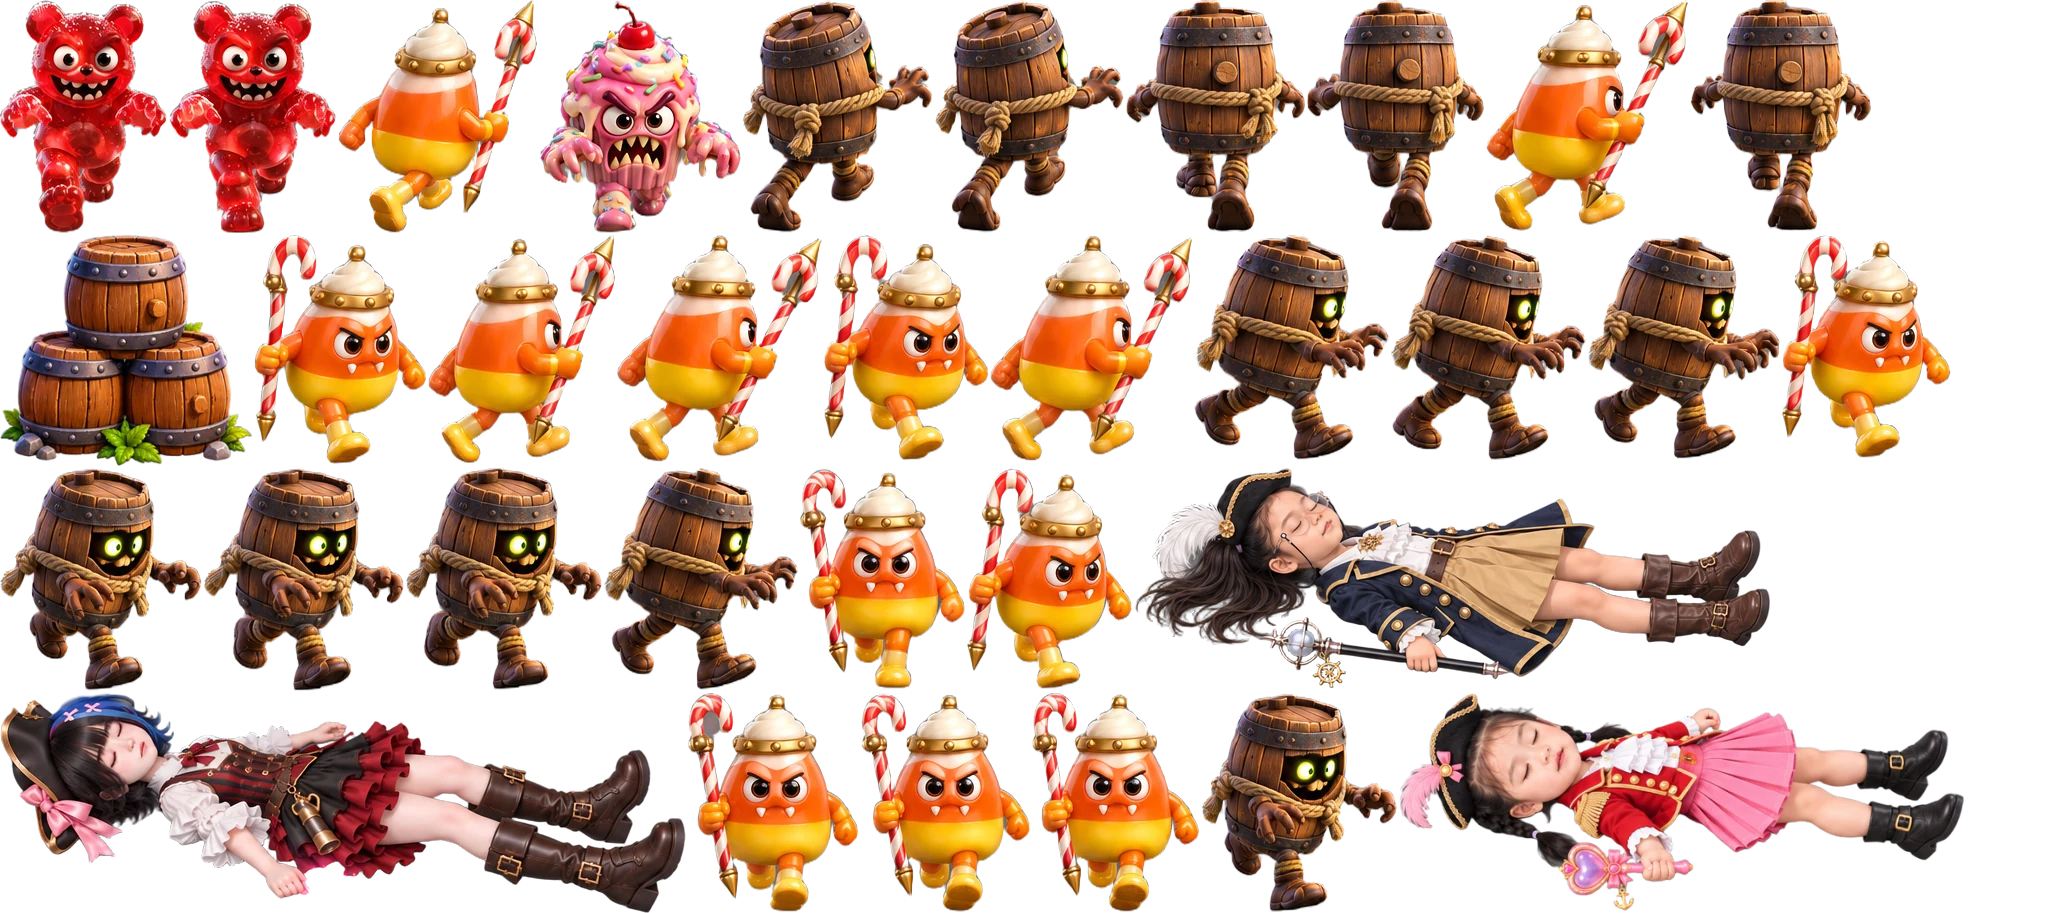
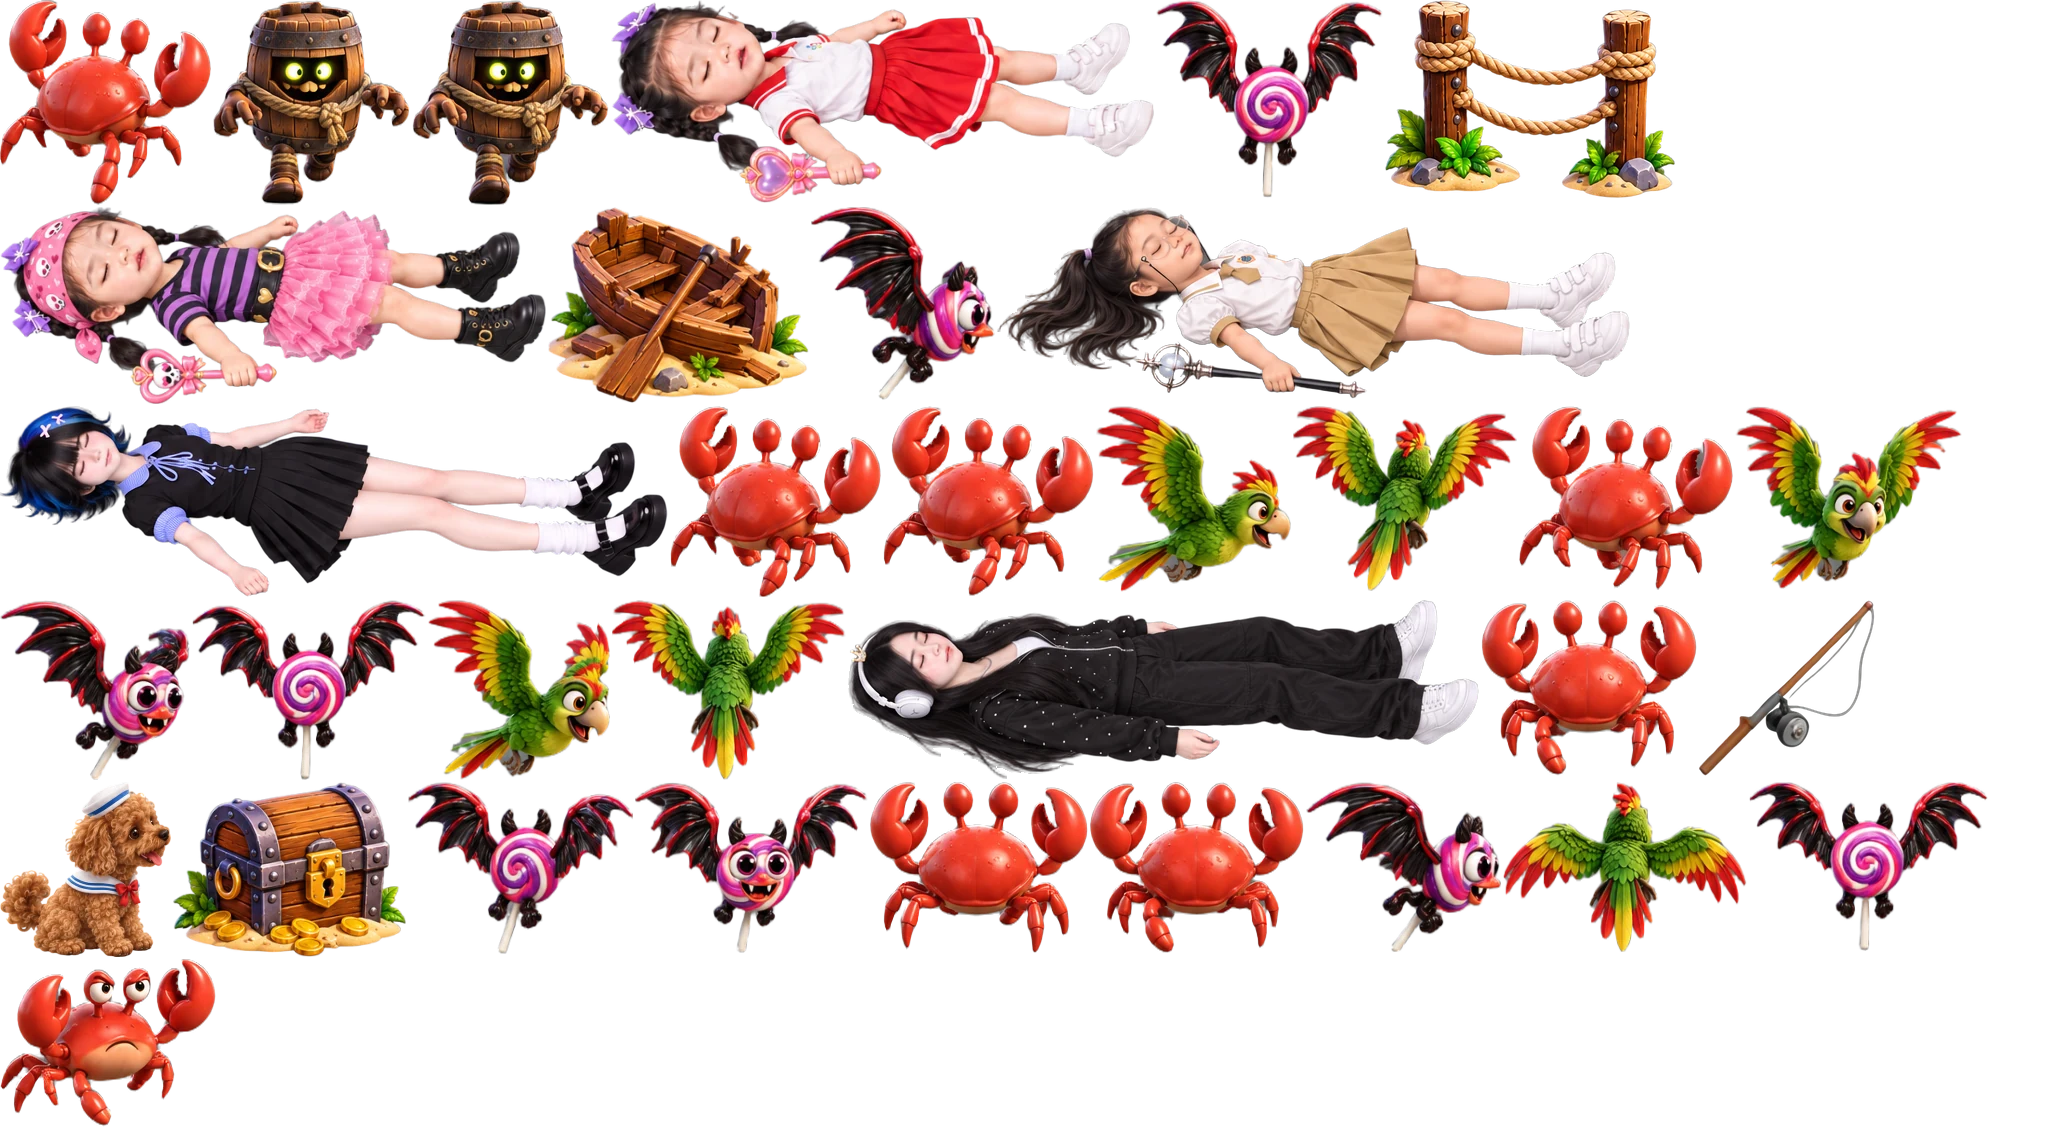
SKSP Phiêu Lưu 261026.1845: Màn 2 bắt đầu ở cửa hàng; Coca và Cafe thuỷ thủ khi trình diễn và lên tàu; chơi một mình chỉ hiện bé đang chơi
Claude-Session: https://claude.ai/code/session_018CdmaGRbzjkocUF5TVUzxd

diff --git a/index.html b/index.html
@@ -242,7 +242,7 @@
     <div class="heroes" id="heroes"></div>
     <div class="help"><span>Cần trái: <b>đi khắp nơi</b></span><span>Bé <b>tự bắn</b> quái gần nhất</span><span>Đầy năng lượng: <b>Tuyệt chiêu</b></span></div>
     <p id="loading">Đang tải hình ảnh…</p>
-    <div class="startsel" id="startSel" role="group" aria-label="Bản thử: chọn màn"><span>Bản thử: chọn màn</span><button id="selMan1">Màn 1</button><button id="selShip">Màn 2: Trên tàu</button><button id="selMan2">Màn 3: Đảo</button></div>
+    <div class="startsel" id="startSel" role="group" aria-label="Bản thử: chọn màn"><span>Bản thử: chọn màn</span><button id="selMan1">Màn 1</button><button id="selShip">Màn 2: Cửa hàng &amp; tàu</button><button id="selMan2">Màn 3: Đảo</button></div>
     <div class="row"><button class="btn" id="startBtn" hidden>Chơi một mình</button><button class="btn ghost" id="coopBtn" hidden>Chơi 2 người</button></div>
   </div>
   <div class="ver"><span id="verNum"></span><button id="verBtn">Kiểm tra bản mới</button></div>
@@ -339,7 +339,7 @@
   let META = null, ready = false;
   function loadImg(src) { return new Promise((res, rej) => { const i = new Image(); i.onload = () => res(i); i.onerror = rej; i.src = src; }); }
   // ---------------------------------------------------------------- version: the site build stamps BUILD_VER and writes version.json beside the page
-  const BUILD_VER = "261026.1814", isBuilt = !BUILD_VER.startsWith("__");
+  const BUILD_VER = "261026.1845", isBuilt = !BUILD_VER.startsWith("__");
   async function latestVer() {
     try { return (await (await fetch("version.json?x=" + Date.now(), { cache: "no-store" })).json()).v; } catch (e) { return null; }
   }
@@ -967,7 +967,7 @@
     }
     // reset the play state
     G.nextId = 1; G.mons = []; G.shots = []; G.pshots = []; G.foes = []; G.parts = []; G.drops = []; G.gems = []; G.rings = []; G.quakes = [];
-    G.shopDone = false; G.shopPhase = 0;   // (a new level has no shop phase left over from the last one)
+    G.shopDone = false; G.shopPhase = 0; G.m2 = false;   // (a new level has no shop phase left over from the last one)
     G.boss = null; G.ult = null; G.quiz = null; G.bcut = null; G.bcutSeen = null; G.rescue = null; G.leaps = 0; G.qzN = 0; $("quiz").hidden = true; G.arenaLock = false; G.lt = 0; G.lvKills = 0; G.spawnAcc = 0; G.surgeT = 35; G.gateMsg = false; G.tierMsg = false; TIER_FR.clear();
     chunkCache.clear(); miniBase = null;
     $("lvlName").textContent = L.name;
@@ -4245,7 +4245,7 @@
     SH.open = false; $("shop").hidden = true; $("photo").hidden = true; G.cine = null; G.rescue = null; $("skipFilm").hidden = true;
   }
   // (starting straight at a later level gives the girl a head start in experience)
-  // (ship = true: the beta shortcut to the ship, as after the team photo: Màn 1 behind her, Màn 2 ahead)
+  // (ship = true: the beta shortcut to Màn 2, as after the candy boss: Màn 1 behind her, the walk-in to the shop ahead; G.level stays 0 until the island)
   function startGame(i, ship) {
     i = clamp(Math.floor(i) || 0, 0, LEVELS.length - 1);
     const lvl = ship ? 0 : i; i = ship ? 1 : i;   // (lvl: the level G.level shows; i: how far along she is, for the head start)
@@ -4266,14 +4266,22 @@
     for (const id of ["titleScreen", "winScreen", "pauseScreen", "bossbar", "shop", "photo"]) $(id).hidden = true;
     SH.open = false;
     // (starting straight at a later level: Simmy already wears the outfit she put on at the last shop)
-    { const so = i > 0 && LEVELS[i - 1].shop ? OUTFITS4.find((o) => o.char === "simmy" && o.theme === LEVELS[i - 1].shop) : null; SIMMY.outfit = so ? outKey(so) : "base"; }
+    { const so = !ship && i > 0 && LEVELS[i - 1].shop ? OUTFITS4.find((o) => o.char === "simmy" && o.theme === LEVELS[i - 1].shop) : null; SIMMY.outfit = so ? outKey(so) : "base"; }
     $("hud").hidden = false; $("controls").hidden = false; $("skipFilm").hidden = true;
-    if (ship) startShip();
+    if (ship) startM2();   // (beta: Màn 2 = the shop, the runway, the photo, the dock, the ship)
     else if (i === 0) startOpening();   // Màn 1 opens with the film (skippable)
     else {
       showBanner(LEVELS[i].name.split(": ")[1], LEVELS[i].name.split(": ")[0]);
       if (i === 1) G.say = { seq: SAYS.level2Start, t: NET.role === "guest" ? -2.2 : -0.8 };   // (Màn 2 as from the ship: Simmy's line 13)
     }
+  }
+  // Màn 2 from the home screen: the team stands in the candy boss's arena (as when he has fallen) and Simmy leads them to the shop;
+  // G.m2 tells a guest's syncShop (no boss fell on her page) to follow the host's shop phases, and the `start` event to repeat this choice
+  function startM2() {
+    G.m2 = true; G.mons = []; G.stars = 100;   // (100 stars to shop with; in co-op the host's pool is the one that counts and the guest mirrors it)
+    const A = G.arena;
+    if (A) { P.x = A.x + (NET.role === "guest" ? 110 : 0); P.y = A.y + 150; P.prog = 0; makePetEnts(); G.camX = clamp(P.x - VW / 2, 0, WORLD - VW); G.camY = clamp(P.y - VH / 2, 0, WORLD - VH); }
+    startShopWalk(LEVELS[0].shop || "pirate");
   }
   // beta: pick where to start from the home screen (kept in localStorage `sksp-start`); in co-op the host's choice goes to both pages
   const STARTS = { man1: "selMan1", ship: "selShip", man2: "selMan2" };
@@ -4554,7 +4562,7 @@
     if (!G.lvl || !G.lvl.shop) return;   // only a level that ends in a shop has a shop phase to follow (Màn 2 never does)
     const w = NET.pp && NET.pp.w, ph = w && w.sh;
     if (!ph) return;
-    const inGame = G.mode === "play" || G.mode === "pause", dead = G.boss && !G.boss.alive;
+    const inGame = G.mode === "play" || G.mode === "pause", dead = G.m2 || (G.boss && !G.boss.alive);
     if (ph === "walk" && G.mode === "play" && dead && !SH.open && !G.cine && !G.shopDone) { startShopWalk(G.lvl.shop, true); return; }
     if (ph === "open" && inGame && dead && !SH.open) { G.stars = Math.max(0, Math.floor(num(w.st))); $("pauseScreen").hidden = true; openShop(G.lvl.shop || "pirate", true); }
     else if (ph === "closed" && (SH.open || (inGame && dead && !G.shopDone))) closeShop(true);
@@ -4596,7 +4604,14 @@
     G.mode = "runway"; RW.t = 0;
     play("portal");
   }
+  // who is in the runway, the photo and the boarding film: the girls who are playing (one alone; both together) and Simmy;
+  // teamAll() is the whole team whoever is playing (the opening film)
   function teamMembers() {
+    const all = teamAll(), other = hero === "g" ? "s" : "g";
+    if (NET.role && Q && Q.hero === other) return all;
+    return all.filter((m) => m.char === hero || m.char === "simmy").sort((a, b) => (a.char === "simmy") - (b.char === "simmy"));   // (the girl on the left, Simmy on the right)
+  }
+  function teamAll() {
     const other = hero === "g" ? "s" : "g";
     let oo = "base";
     if (NET.role && Q && Q.hero === other) oo = Q.outfit || "base";
@@ -4605,6 +4620,27 @@
     const sim = { char: "simmy", outfit: SIMMY.outfit, name: "Simmy" };
     return hero === "g" ? [mine, sim, sis] : [sis, sim, mine];
   }
+  // Coca (Mochi's dog) and Cafe (Matcha's cat) come along in their sailor outfits (atlas4 `<name>_sail_w0..w3 / sit / joy`, facing right):
+  // of each girl who is in the team: her pet, if she has it (a sister on the other page: from her presence)
+  const PET_ART = { dog: "coca", cat: "cafe" };
+  function teamPets() {
+    const out = [];
+    for (const m of teamMembers()) {
+      if (m.char === "simmy") continue;
+      const kind = Object.keys(PET_ART).find((k) => PETS[k] && PETS[k].owner === m.char);
+      if (!kind || !FR[PET_ART[kind] + "_sail_sit"]) continue;
+      const has = m.char === hero ? P.pets.includes(kind) : !!(NET.role && Q && (Q.pets || []).includes(kind));
+      if (has) out.push({ kind, char: m.char, art: PET_ART[kind] });
+    }
+    return out;
+  }
+  // a pet's frame at its feet (x, gy); th = a grown-up's height (400 units) on this screen, so the pet is as big as in the world (Coca ~110, Cafe ~95)
+  function drawPetAt(g, art, pose, x, gy, th) {
+    const f = FR[art + "_sail_" + pose]; if (!f) return false;
+    const k = f.s * th / 400;
+    g.drawImage(f.img, f.sx, f.sy, f.w, f.h, x - f.ax * k, gy - f.ay * k, f.w * k, f.h * k);
+    return true;
+  }
   // the whole team on a stage: walking in one after the other (t seconds), then cheering; `final` = already standing in their places
   function drawTeamScene(g, W, H, t, final) {
     const th = SHOP_THEMES[SH.theme] || SHOP_THEMES.pirate;
@@ -4612,7 +4648,8 @@
     // the painted show stage (its three spotlit spots at 80 % of the picture; the floor end of it kept in view on a wide screen)
     const bg = scene("stage");
     g.fillStyle = th.bg[2]; g.fillRect(0, 0, W, H);   // (only until the picture is in)
-    const team = teamMembers(), fx = [0.27, 0.5, 0.73], ht = H * 0.55, gy = bg ? cover(g, bg, W, H, 0.5, 0.8)(0, STAGE_FEET)[1] : H * 0.86;
+    const team = teamMembers(), fx = team.length > 2 ? [0.27, 0.5, 0.73] : [0.36, 0.64], ht = H * 0.55, gy = bg ? cover(g, bg, W, H, 0.5, 0.8)(0, STAGE_FEET)[1] : H * 0.86;
+    const pets = teamPets(), poff = Math.min(ht * 0.3, W * 0.11);
     team.forEach((m, i) => {
       const s = final ? 0 : i * 0.95, p = final ? 1 : Math.max(0, Math.min(1, (t - s) / 2.3)), e = 1 - (1 - p) * (1 - p);
       if (!final && t < s) return;
@@ -4625,6 +4662,16 @@
       const hm = ht * (CHAR_H[m.char] || 400) / 400;   // (ht = a grown-up's height: Simmy 400, Matcha 330, Mochi 275, as in the world)
       if (m.char === "simmy") drawSimmyAt(g, x, gy - hop, hm, t, m.outfit, o); else drawHeroAt(g, m.char, m.outfit, o, x, gy - hop, hm, false);
       g.fillStyle = "#fff6e5"; g.font = `800 ${Math.round(H * 0.05)}px Grandstander, system-ui, sans-serif`; g.textAlign = "center"; g.fillText(m.name, x, gy + H * 0.075);
+      // her pet: walks in beside her (a little in front, on her right), hops for joy when she arrives, then sits in her spotlight
+      const pt = pets.find((q) => q.char === m.char);
+      if (pt) {
+        const px = x + poff, py = gy + H * 0.035, jt = (t - s) - 2.3, joy = !final && cheer && jt < 1.6;
+        const pose = walking ? "w" + (Math.floor((t - s) * 9) % 4) : joy ? "joy" : "sit", ph = joy ? Math.abs(Math.sin(jt * 6)) * ht * 0.05 : 0;
+        g.fillStyle = "rgba(0,0,0,.3)"; g.beginPath(); g.ellipse(px, py, ht * 0.1, ht * 0.02, 0, 0, TAU); g.fill();
+        drawPetAt(g, pt.art, pose, px, py - ph, ht);
+        if (API.drawn) API.drawn.push(["teamPet", pt.art, pose, px, py, x, gy]);
+      }
+      if (API.drawn) API.drawn.push(["team", m.char, x, gy]);
     });
     if (final) {
       g.fillStyle = "#fff6e5"; g.font = `800 ${Math.round(H * 0.085)}px Grandstander, system-ui, sans-serif`; g.textAlign = "center";
@@ -4703,7 +4750,10 @@
   const DECK_VIEW = [0.05, 0, 0.97, 1];   // the part of the picture always on screen: the whole ship with its fishing ledges and the water past them (the floats)
   const DECK_START = { g: [0.36, 0.7], s: [0.6, 0.7] };   // where each girl steps onto the deck
   const SIM_HOME = [0.44, 0.6];   // Simmy's spot: left of the mast, below the table (deck.json's \`simmy\` spot stood her in front of the mast)
-  const DOCK_WALK = 6, DOCK_GAP = 0.7, ARR_SAIL = 4.5;
+  const DOCK_WALK = 6, DOCK_GAP = 0.7, DOCK_LAG = 0.5, ARR_SAIL = 4.5;
+  // where each of them stands on the painted ship's deck when the walk is over (picture fractions: the deck floor between the bulwark and the cabin,
+  // the first to arrive furthest in), spaced out
+  const DOCK_PARK = [[0.905, 0.607], [0.86, 0.609], [0.815, 0.609], [0.77, 0.6], [0.725, 0.59]];
   // the dock picture: the pier top runs along y 0.745, the gangplank goes up from (0.47, 0.745) to (0.64, 0.60), then onto the ship
   const DOCK_PATH = [[-0.08, 0.745], [0.47, 0.745], [0.64, 0.6], [0.7, 0.585]];
   const SHIP_PH = ["dock", "fish", "cook", "arrive"];
@@ -4713,7 +4763,7 @@
   const SHIP = { ph: "dock", t: 0, fish: 0, dishes: 0, tub: 0, carry: { g: null, s: null }, pans: [newPan(), newPan()], bucketAt: "spot", big: null, hint: null, lines: { g: null, s: null } };
   let shipFrom = null, shownAct;   // (her world position while she is on the ship; the action the button shows now)
   const onShip = () => G.mode === "ship" || (G.mode === "pause" && G.pmode === "ship");
-  const dockEnd = () => Math.max(0.3 + seqTime(SAYS.afterPhoto) + 0.6, 0.4 + 2 * DOCK_GAP + DOCK_WALK + 0.3);
+  const dockEnd = () => Math.max(0.3 + seqTime(SAYS.afterPhoto) + 0.6, 0.4 + 2 * DOCK_GAP + DOCK_LAG + DOCK_WALK + 0.9);
   const arrTalk = () => seqTime(SAYS.cookDone) + 0.4, arriveEnd = () => arrTalk() + ARR_SAIL;
   const SAY_ON = { fish: ["shipStart", 0.5], cook: ["fishDone", 0], arrive: ["cookDone", 0] };   // the line Simmy says as each phase starts (and when)
 
@@ -4732,7 +4782,6 @@
     SHIP.ph = ph; SHIP.t = 0; IN.ultPressed = false; dropHeld(); castWind = null;
     if (from === "dock" && ph !== "dock") {   // onto the deck
       const s = DECK_START[hero]; P.x = s[0] * DECK.size[0]; P.y = s[1] * DECK.size[1]; P.vx = P.vy = 0; P.face = 0; P.flip = false;
-      showBanner("Chuyến Tàu Ra Đảo", "Màn 2");   // (the ship is Màn 2 for Dad and the girls; the island is Màn 3 — LEVELS[1])
     }
     if (ph === "arrive") { P.vx = P.vy = 0; P.moving = false; play("win"); }
     shipUi();
@@ -5777,22 +5826,40 @@
     let map = (u, v) => [u * W, v * H];
     if (img) map = cover(g, img, W, H, 0.5, 0.75);
     const ph = map(0, 1)[1] - map(0, 0)[1];
-    const team = teamMembers(), walkers = [team.find((m) => m.char === "simmy"), ...team.filter((m) => m.char !== "simmy")];
-    // the path in picture fractions, by length (the picture is 1.5 times wider than tall)
-    const seg = DOCK_PATH.slice(1).map((p, i) => Math.hypot((p[0] - DOCK_PATH[i][0]) * 1.5, p[1] - DOCK_PATH[i][1])), tot = seg.reduce((a, b) => a + b, 0);
-    const at = (p) => { let d = p * tot; for (let i = 0; i < seg.length; i++) { if (d <= seg[i] || i === seg.length - 1) { const f = Math.min(1, d / seg[i]); return [lerp(DOCK_PATH[i][0], DOCK_PATH[i + 1][0], f), lerp(DOCK_PATH[i][1], DOCK_PATH[i + 1][1], f)]; } d -= seg[i]; } };
-    let sim = null;
-    walkers.forEach((m, i) => {
-      const t0 = 0.4 + i * DOCK_GAP, p = clamp((t - t0) / DOCK_WALK, 0, 1), [u, v] = at(p), [x, y] = map(u, v);
-      const hm = ph * 0.2 * (CHAR_H[m.char] || 400) / 400, a = 1 - ss(0.9, 1, p);
-      if (m.char === "simmy") sim = [x, y - hm - 16];
-      if (a <= 0.01) return;
-      const o = { face: 2, flip: false, moving: p > 0 && p < 1, dist: Math.max(0, t - t0) * 250 };
-      g.save(); g.globalAlpha = a;
-      g.fillStyle = "rgba(0,0,0,.25)"; g.beginPath(); g.ellipse(x, y, hm * 0.2, hm * 0.05, 0, 0, TAU); g.fill();
-      if (m.char === "simmy") drawSimmyAt(g, x, y, hm, t, m.outfit, o, false); else drawHeroAt(g, m.char, m.outfit, o, x, y, hm, true);
-      g.restore();
+    const team = teamMembers(), walkers = [team.find((m) => m.char === "simmy"), ...team.filter((m) => m.char !== "simmy")], pets = teamPets();
+    // everyone: each girl followed by her pet; they walk the path and then stand on the ship's deck (DOCK_PARK, one spot each) until the film ends
+    const cast = [];
+    walkers.forEach((m, i) => { const t0 = 0.4 + i * DOCK_GAP; cast.push({ m, t0 }); const pt = pets.find((q) => q.char === m.char); if (pt) cast.push({ pt, t0: t0 + DOCK_LAG }); });
+    let sim = null; const draws = [];
+    cast.forEach((c, i) => {
+      const px = cast.length > 1 ? lerp(DOCK_PARK[0][0], DOCK_PARK[DOCK_PARK.length - 1][0], i / (cast.length - 1)) : 0.86;   // (spread over the deck, whoever is aboard)
+      let py = DOCK_PARK[0][1]; for (let j = 1; j < DOCK_PARK.length; j++) if (px <= DOCK_PARK[j - 1][0]) py = lerp(DOCK_PARK[j - 1][1], DOCK_PARK[j][1], clamp((DOCK_PARK[j - 1][0] - px) / (DOCK_PARK[j - 1][0] - DOCK_PARK[j][0]), 0, 1));
+      const park = [px, py], pts = [...DOCK_PATH, park];
+      // the path in picture fractions, by length (the picture is 1.5 times wider than tall)
+      const seg = pts.slice(1).map((q, j) => Math.hypot((q[0] - pts[j][0]) * 1.5, q[1] - pts[j][1])), tot = seg.reduce((a, b) => a + b, 0);
+      const p = clamp((t - c.t0) / DOCK_WALK, 0, 1);
+      let d = p * tot, u = park[0], v = park[1];
+      for (let j = 0; j < seg.length; j++) { if (d <= seg[j] || j === seg.length - 1) { const f = Math.min(1, d / seg[j]); u = lerp(pts[j][0], pts[j + 1][0], f); v = lerp(pts[j][1], pts[j + 1][1], f); break; } d -= seg[j]; }
+      const [x, y] = map(u, v), moving = p > 0 && p < 1;
+      if (c.m) {
+        const m = c.m, hm = ph * 0.2 * (CHAR_H[m.char] || 400) / 400;
+        if (m.char === "simmy") sim = [x, y - hm - 16];
+        draws.push([y, () => {
+          const o = { face: 2, flip: false, moving, dist: Math.max(0, t - c.t0) * 250 };
+          g.fillStyle = "rgba(0,0,0,.25)"; g.beginPath(); g.ellipse(x, y, hm * 0.2, hm * 0.05, 0, 0, TAU); g.fill();
+          if (m.char === "simmy") drawSimmyAt(g, x, y, hm, t, m.outfit, o, false); else drawHeroAt(g, m.char, m.outfit, o, x, y, hm, true);
+          if (API.drawn) API.drawn.push(["dock", m.char, x, y, u, v]);
+        }]);
+      } else {
+        const th = ph * 0.2, pose = moving ? "w" + (Math.floor(Math.max(0, t - c.t0) * 9) % 4) : "sit";
+        draws.push([y, () => {
+          g.fillStyle = "rgba(0,0,0,.25)"; g.beginPath(); g.ellipse(x, y, th * 0.1, th * 0.025, 0, 0, TAU); g.fill();
+          drawPetAt(g, c.pt.art, pose, x, y, th);
+          if (API.drawn) API.drawn.push(["dock", c.pt.art, x, y, u, v]);
+        }]);
+      }
     });
+    draws.sort((a, b) => a[0] - b[0]).forEach((e) => e[1]());
     const say = sayAt(SAYS.afterPhoto, t - 0.3);
     if (say && sim) talkBubble(SAYS.afterPhoto[say.i][1], sim[0], sim[1], say.k, Math.round(H * 0.035));
     const f = ss(dockEnd() - 0.7, dockEnd(), t);
@@ -5894,6 +5961,7 @@
     if (!c.hold) c.t = Math.min(c.end, c.t + dt);
     const t = c.t, D = c.D, S = c.talk;
     if (t0 < c.shopAt && t >= c.shopAt) wkShopPops(D);
+    if (t0 < S && t >= S) showBanner("Chuyến Tàu Ra Đảo", "Màn 2");   // (Màn 2 starts here: the lines are done and Simmy walks to the shop; Màn 3 is the island, LEVELS[1])
     G.ult = null;   // (no blinking: nothing can hurt her while the world waits)
     // (while they talk she stands where she is, by Simmy; then the walk)
     const [vx, vy] = wkWalk(P, c.pp, 1.5 + S, 3.8 + S, 4.1 + S, 5.2 + S, t, dt); P.vx = vx; P.vy = vy;
@@ -6101,7 +6169,7 @@
       for (let i = 0; i < 26; i++) { const u = ((t * 0.7 + i * 0.137) % 1), a = i * 2.4 + t * 1.5, rr = (1 - u) * rx * 1.7; g.fillStyle = `rgba(210,210,230,${0.8 * u * po})`; g.beginPath(); g.arc(px + Math.cos(a) * rr, py + Math.sin(a) * rr * ry / rx, H * 0.006 * (1 + u), 0, TAU); g.fill(); }
     }
     // the cast
-    const mem = teamMembers(), outOf = (ch) => (mem.find((m) => m.char === ch) || {}).outfit || "base";
+    const mem = teamAll(), outOf = (ch) => (mem.find((m) => m.char === ch) || {}).outfit || "base";
     const pull = (x0, y0, s, jump) => {   // dragged to the portal from second s: [x, y, scale, spin, gone]
       const u = clamp((t - s) / (jump ? 1.1 : 1.9), 0, 1), e = u * u * (3 - 2 * u);
       return [lerp(x0, px, e), lerp(y0, py, e) - Math.sin(Math.PI * u) * H * (jump ? 0.28 : 0.16), 1 - 0.88 * e, u * (jump ? 5 : 9), u >= 1];
@@ -6325,7 +6393,7 @@
     startChosen();
     sendStart();
   }
-  function sendStart() { NET.startT = 1; netEmit("start", { to: NET.partner, lv: G.level, ship: onShip() }); }
+  function sendStart() { NET.startT = 1; netEmit("start", { to: NET.partner, lv: G.level, ship: !!G.m2 }); }
   function leaveCoop() {
     if (NET.room) NET.room.presence({ co: null, gl: null, sh: null, w: null }).catch(() => {});
     NET.role = null; NET.partner = null; NET.pp = null; NET.co = null; Q = null; QPETE = []; NET.hq.length = 0; NET.sq.length = 0; NET.fq.length = 0;
